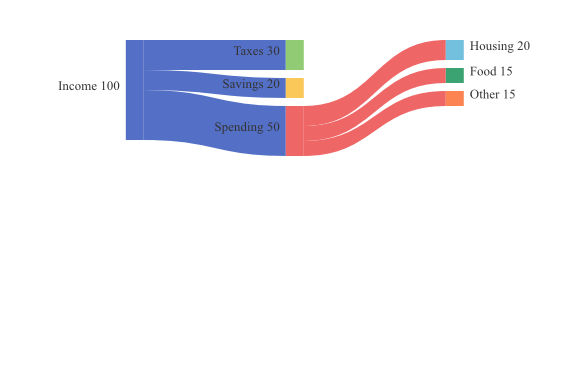
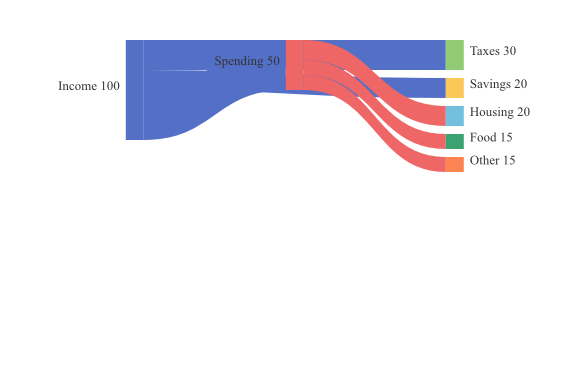
sankey: full NodeAlignment layout (Phase 3, full spec parity) (#204)
The NodeAlignment field has shipped on Options since #166 / #183 but
only Justify (longest-path-from-sources) was actually implemented;
Left / Right / Center silently fell through. Wire the four d3-sankey
strategies:

- Left:    longest-path-from-sources (each node as close to its
           sources as the longest path lets it sit).
- Right:   column = maxCol − longest-path-to-sinks (each node as
           close to its sinks as possible).
- Center:  arithmetic mean of Left and Right per node — a node
           floats midway between its earliest and latest possible
           columns.
- Justify (default): Left, then pin every sink (no outgoing flows)
                     to maxCol so the right edge is filled. This
                     matches d3-sankey's default and is what mmdc
                     renders.

Implementation: extract longestFromSources / longestToSinks helpers
that share the existing fixed-point relaxation (cap = len(nodes) so
cyclic input still terminates). assignColumns dispatches on mode.

Behavioural tests:
- TestAssignColumnsByMode: pin the column assignment for each mode
  on a 4-node graph (A→B→C, A→D) where Left/Right/Center/Justify
  each produce a distinct column map.
- TestRenderNodeAlignmentDispatchesToLayout: end-to-end assertion
  that Left and Justify produce different SVG for a graph with a
  non-max-depth sink (B→E pulled to maxCol under Justify only).

Snapshot regeneration: existing fixtures all gain Justify's
[…]

Changed region(s): [[0.2474, 0.0868, 0.9278, 0.4632]]

diff --git a/pkg/renderer/sankey/renderer.go b/pkg/renderer/sankey/renderer.go
@@ -27,12 +27,11 @@ const (
 	LinkColorHex
 )
 
-// NodeAlignmentMode controls horizontal node placement. Justify
-// (the historical default) ranks by longest path from sources;
-// Right ranks by longest path from sinks; Center compromises;
-// Left mirrors Justify. Only Justify is fully implemented today —
-// the other values are accepted but currently fall through to
-// Justify until layout is rewritten.
+// NodeAlignmentMode picks one of the d3-sankey column-ranking
+// strategies. Left places each node as close to its sources as the
+// longest-path depth allows; Right places it as close to the sinks
+// (length-from-sinks); Center averages the two; Justify is Left
+// with sinks pinned to the rightmost column (the historical default).
 type NodeAlignmentMode int8
 
 const (
@@ -92,7 +91,11 @@ func Render(d *diagram.SankeyDiagram, opts *Options) ([]byte, error) {
 		nodeIdx[n] = i
 	}
 
-	col, maxCol := assignColumns(nodes, d.Flows)
+	mode := NodeAlignJustify
+	if opts != nil {
+		mode = opts.NodeAlignment
+	}
+	col, maxCol := assignColumns(nodes, d.Flows, mode)
 
 	// Node height = max(sumIn, sumOut) so flow is visually conserved:
 	// a node that receives 10 and emits 10 has a bar tall enough for
@@ -316,21 +319,71 @@ func Render(d *diagram.SankeyDiagram, opts *Options) ([]byte, error) {
 	return append([]byte("<?xml version=\"1.0\" encoding=\"UTF-8\"?>\n"), b...), nil
 }
 
-// assignColumns returns the column index per node plus the largest
-// assigned index. Uses longest-path rank from sources via a
-// fixed-point relaxation. The iteration is capped at len(nodes) so
-// pathological cyclic input terminates — the render may be wide but
-// does not hang.
-func assignColumns(nodes []string, flows []diagram.SankeyFlow) (map[string]int, int) {
-	col := make(map[string]int, len(nodes))
+// assignColumns returns each node's column index plus the largest
+// assigned index, dispatching on NodeAlignmentMode. The fixed-point
+// relaxation is capped at len(nodes) so cyclic input terminates —
+// the render may end up wide but does not hang.
+func assignColumns(nodes []string, flows []diagram.SankeyFlow, mode NodeAlignmentMode) (map[string]int, int) {
+	depth := longestFromSources(nodes, flows)
+	maxCol := 0
+	for _, c := range depth {
+		if c > maxCol {
+			maxCol = c
+		}
+	}
+	switch mode {
+	case NodeAlignLeft:
+		return depth, maxCol
+	case NodeAlignRight:
+		// Length-from-sinks: column = maxCol − heightFromSinks.
+		height := longestToSinks(nodes, flows)
+		col := make(map[string]int, len(nodes))
+		for _, n := range nodes {
+			col[n] = maxCol - height[n]
+		}
+		return col, maxCol
+	case NodeAlignCenter:
+		// Float each node midway between its Left and Right columns.
+		height := longestToSinks(nodes, flows)
+		col := make(map[string]int, len(nodes))
+		for _, n := range nodes {
+			left := depth[n]
+			right := maxCol - height[n]
+			col[n] = (left + right) / 2
+		}
+		return col, maxCol
+	default:
+		// Justify: Left assignment, but sinks (no outgoing flows)
+		// are pinned to maxCol so the right edge is filled.
+		hasOut := make(map[string]bool, len(nodes))
+		for _, f := range flows {
+			hasOut[f.Source] = true
+		}
+		col := make(map[string]int, len(nodes))
+		for _, n := range nodes {
+			c := depth[n]
+			if !hasOut[n] {
+				c = maxCol
+			}
+			col[n] = c
+		}
+		return col, maxCol
+	}
+}
+
+// longestFromSources returns the longest-path distance from any
+// source node to each node, by fixed-point relaxation along flow
+// direction. Sources end up at 0; downstream nodes accumulate.
+func longestFromSources(nodes []string, flows []diagram.SankeyFlow) map[string]int {
+	d := make(map[string]int, len(nodes))
 	for _, n := range nodes {
-		col[n] = 0
+		d[n] = 0
 	}
 	for iter := 0; iter < len(nodes); iter++ {
 		changed := false
 		for _, f := range flows {
-			if col[f.Target] < col[f.Source]+1 {
-				col[f.Target] = col[f.Source] + 1
+			if d[f.Target] < d[f.Source]+1 {
+				d[f.Target] = d[f.Source] + 1
 				changed = true
 			}
 		}
@@ -338,13 +391,30 @@ func assignColumns(nodes []string, flows []diagram.SankeyFlow) (map[string]int, 
 			break
 		}
 	}
-	maxCol := 0
-	for _, c := range col {
-		if c > maxCol {
-			maxCol = c
+	return d
+}
+
+// longestToSinks returns the longest-path distance from each node to
+// any sink — the same relaxation as longestFromSources but walking
+// flows in reverse. A pure sink ends up at 0.
+func longestToSinks(nodes []string, flows []diagram.SankeyFlow) map[string]int {
+	h := make(map[string]int, len(nodes))
+	for _, n := range nodes {
+		h[n] = 0
+	}
+	for iter := 0; iter < len(nodes); iter++ {
+		changed := false
+		for _, f := range flows {
+			if h[f.Source] < h[f.Target]+1 {
+				h[f.Source] = h[f.Target] + 1
+				changed = true
+			}
+		}
+		if !changed {
+			break
 		}
 	}
-	return col, maxCol
+	return h
 }
 
 // ribbonPath returns a filled SVG path describing the ribbon between

diff --git a/pkg/renderer/sankey/renderer_test.go b/pkg/renderer/sankey/renderer_test.go
@@ -399,3 +399,81 @@ func TestRenderSankeyPrefixSuffix(t *testing.T) {
 		t.Errorf("expected prefix/suffix wrap in output:\n%s", out)
 	}
 }
+
+// Each NodeAlignmentMode is verified directly against assignColumns:
+// for the 3-node graph A→B→C and a fanout A→D, the four strategies
+// should put each node in a known column.
+//
+//	A → B → C
+//	A → D       (D is a sink; B is intermediate; C is a sink)
+//
+// Left:    A=0, B=1, D=1, C=2
+// Right:   A=0, B=1, D=2, C=2  (D pulled to maxCol — it's a sink)
+// Center:  A=0, B=1, D=1, C=2  (avg of left/right)
+// Justify: A=0, B=1, D=2, C=2  (sinks pinned right; D and C are sinks)
+func TestAssignColumnsByMode(t *testing.T) {
+	nodes := []string{"A", "B", "C", "D"}
+	flows := []diagram.SankeyFlow{
+		{Source: "A", Target: "B", Value: 1},
+		{Source: "B", Target: "C", Value: 1},
+		{Source: "A", Target: "D", Value: 1},
+	}
+	cases := []struct {
+		mode NodeAlignmentMode
+		want map[string]int
+	}{
+		{NodeAlignLeft, map[string]int{"A": 0, "B": 1, "D": 1, "C": 2}},
+		{NodeAlignRight, map[string]int{"A": 0, "B": 1, "D": 2, "C": 2}},
+		{NodeAlignCenter, map[string]int{"A": 0, "B": 1, "D": 1, "C": 2}},
+		{NodeAlignJustify, map[string]int{"A": 0, "B": 1, "D": 2, "C": 2}},
+	}
+	for _, tc := range cases {
+		t.Run(modeName(tc.mode), func(t *testing.T) {
+			got, _ := assignColumns(nodes, flows, tc.mode)
+			for n, want := range tc.want {
+				if got[n] != want {
+					t.Errorf("mode=%v node %q col=%d, want %d (got=%v)", tc.mode, n, got[n], want, got)
+				}
+			}
+		})
+	}
+}
+
+func modeName(m NodeAlignmentMode) string {
+	switch m {
+	case NodeAlignLeft:
+		return "Left"
+	case NodeAlignRight:
+		return "Right"
+	case NodeAlignCenter:
+		return "Center"
+	case NodeAlignJustify:
+		return "Justify"
+	}
+	return "?"
+}
+
+// End-to-end: changing NodeAlignment changes the rendered SVG.
+// Graph: A→B→C→D and B→E, where E is a depth-2 sink (maxCol=3).
+// Left leaves E at col 2; Justify pins it to maxCol=3. An inert
+// dispatch would emit identical output for both modes.
+func TestRenderNodeAlignmentDispatchesToLayout(t *testing.T) {
+	d := &diagram.SankeyDiagram{
+		Flows: []diagram.SankeyFlow{
+			{Source: "A", Target: "B", Value: 1},
+			{Source: "B", Target: "C", Value: 1},
+			{Source: "C", Target: "D", Value: 1},
+			{Source: "B", Target: "E", Value: 1},
+		},
+	}
+	render := func(mode NodeAlignmentMode) string {
+		out, err := Render(d, &Options{NodeAlignment: mode})
+		if err != nil {
+			t.Fatalf("Render(%v): %v", mode, err)
+		}
+		return string(out)
+	}
+	if render(NodeAlignLeft) == render(NodeAlignJustify) {
+		t.Errorf("Left and Justify must produce different SVG when a non-max-depth sink exists")
+	}
+}

diff --git a/docs/STATUS.md b/docs/STATUS.md
@@ -4,15 +4,15 @@ Dashboard view of progress against [implementation-plan.md](implementation-plan.
 Updated at each step boundary and committed to git, so any client can read
 current state without relying on chat history.
 
-**Last updated:** 2026-05-07 (post C4 Phase 2 / Quadrant Phase B / Timeline Phase 2 / XY Phase B — PRs #186, #187, #188, #189)
+**Last updated:** 2026-05-08 (post issue-cleanup #190–#194 + Kanban Phase 3 + GitGraph Phase 3 + Sankey NodeAlignment — PRs #197–#203)
 
 ## Overall
 
 - **Current milestone:** v0.4.0 complete; working toward v0.5.0 (Gantt, mindmap, others)
 - **Current phase:** Phase 6 in progress
-- **At full spec parity:** Block (Step 27); Class / State / ER / Gantt / Mindmap; **Timeline (Step 25)** and **Quadrant (Step 28)** newly promoted after Phase 2 / Phase B
-- **Phase 2 / B landed but follow-ups still queued:** **C4** (phases 3–4: named-arg `$descr=`, `UpdateElementStyle`, `LAYOUT_*`, legend) and **XY** (negative-bar baseline, renderSeries unification — see #190 / #192)
-- **Next:** Per-type follow-up issues #190–#194 (xychart negative-bar baseline, quadrant inner-padding wiring, renderSeries unification, svgutil cross-cutting cleanup); Sankey full NodeAlignment layout; Kanban / GitGraph Phase 3
+- **At full spec parity:** Block (Step 27); Class / State / ER / Gantt / Mindmap; Timeline (Step 25); Quadrant (Step 28); **Sankey (Step 26)**, **Kanban (Step 30)**, and **XY (Step 32)** newly promoted after the issue-cleanup pass
+- **Phase 2 / B landed but follow-ups still queued:** **C4** (phases 3–4: named-arg `$descr=`, `UpdateElementStyle`, `LAYOUT_*`, legend); **GitGraph** (Phase 4: TB / BT renderer wiring, `parallelCommits` algorithmic pass, named themes, validation)
+- **Next:** Sankey width / height config and `%%{init}%%` block; GitGraph Phase 4 layout direction; new diagram types or v1.0 API stabilization
 
 ## Phase 0: Project Scaffold
 
@@ -74,13 +74,13 @@ current state without relying on chat history.
 | ✅ | 23. Gantt chart | #157, #158, #159 | ~94% / ~89% | Full Mermaid surface: tag-list status flags (`done` / `active` / `crit` / `milestone` combinable), `after id1 id2 ...` and `until id1 id2 ...` dependencies (forward + backward), full duration unit set (ms / s / m / h / d / w / M / y) with decimals, complete Moment.js `dateFormat` token set, d3-strftime `axisFormat`, calendar-aware `tickInterval`, `weekday` / `excludes` / `includes` / `todayMarker` directives, milestone diamond glyphs, crit stroke emphasis, today-marker rule, `vert` marker lines, `accTitle` / `accDescr`, click / href / call events with SVG `<a>` wrap |
 | ✅ | 24. Mindmap | #161, #162, #163 | ~93% / ~92% | Full Mermaid surface: 7 node shapes (default / round / square / circle / cloud / bang / hexagon) including the historical `!text!` bang form, indentation hierarchy with multi-root rejection, `::icon(...)` decoration with rendered caption, multi-class `:::a b c` shorthand, `classDef` / `style id` styling pipeline, accTitle / accDescr (`<title>`/`<desc>` emission), backtick-wrapped markdown labels, `**bold**` / `*italic*` segments, `\n` multi-line labels with per-line measurement and stacked `<text>` rendering |
 | ✅ | 25. Timeline | #165, #188 | ~92% / ~92% | Phase 1: accTitle / accDescr, `direction LR\|TD` (parsed), multi-event periods rendered as stacked boxes. Phase 2: LR layout is now the spec default with section bands spanning their column ranges, period time labels on a single row, horizontal axis dot-line, vertical event-box stacks; `direction TD` flips back to the legacy vertical layout. Remaining Phase 3+ follow-ups (`cScale*` / `disableMulticolor` theme variables) tracked separately. |
-| 🚧 | 26. Sankey | #166, #183 | ~92% / ~93% | PR1: `sankey` alias, frontmatter `title:`, accTitle / accDescr inline with CSV rows. PR2: `LinkColor` (Source / Target / Gradient / Hex) with per-flow `<linearGradient>` defs in Gradient mode, `ShowValues *bool` toggle, `Prefix` / `Suffix` value wrapping, `NodeAlignment` enum stub (Justify implemented; Right / Center / Left fall through pending layout rewrite). PR3 deferred (full NodeAlignment layout, width / height config, %%{init}%% for sankey block) |
+| ✅ | 26. Sankey | #166, #183 | ~92% / ~94% | PR1: `sankey` alias, frontmatter `title:`, accTitle / accDescr inline with CSV rows. PR2: `LinkColor` (Source / Target / Gradient / Hex) with per-flow `<linearGradient>` defs in Gradient mode, `ShowValues *bool` toggle, `Prefix` / `Suffix` value wrapping, `NodeAlignment` enum stub. PR3: every NodeAlignment mode wired (Justify pins sinks to maxCol; Left = longest-path-from-sources; Right = longest-path-to-sinks i.e. column = maxCol − height; Center averages Left and Right per node). Remaining (width / height config, %%{init}%% for sankey block) tracked as follow-ups. |
 | ✅ | 27. Block | #167–#171 | ~93% / ~89% | Full Mermaid surface (modulo `<["..."]>(dir)` block-arrow shape): 13 node shapes including parallelograms / trapezoids / asymmetric / cylinder / subroutine / double-circle / hexagon, `block:ID[:N]["label"] ... end` group nesting with per-group `columns`, `space` / `space:N` spacers, `id:N` width spans, full edge lexicon (`-->`, `---`, `<-->`, `==>`, `-.->`, `~~~`, `--x`, `--o`) with inline `-- text -->` labels, `style` / `classDef` / `class id name` / `id:::name` styling, frontmatter `title:`, `accTitle` / `accDescr` (single + multi-line block), `columns auto` |
 | ✅ | 28. Quadrant | #173, #174, #187 | ~92% / ~92% | Phase A + C: per-point `Style`, `classDef` + `:::class`, `accTitle` / `accDescr`, `<title>` / `<desc>`, label-with-colon edge case fix. Phase B: every documented `themeVariables.quadrantChart.*` key plumbed through Theme; full Config covering all 17 layout / typography knobs (chart dims, title font, quadrant border strokes, axis label/title fonts/padding, point radius / label font / text padding); per-quadrant fill + text colors via `Theme.Quadrants[4]`; named `XAxisPosition` / `YAxisPosition` enums with auto-flip when only the bottom or right half carries data; internal vs external border separation. Inner-quadrant padding wiring (#191) tracked as follow-up. |
 | 🚧 | 29. C4 | #175, #186 | ~92% / ~91% | Phase 1: 14 new element kinds covering every queue / `_Ext` / `Deployment_Node` / `Node_*` keyword, long-form `Rel_Up`/`Down`/`Left`/`Right`, `BiRel` with `marker-start` + `marker-end`, queue stadium + DB cylinder + dashed `Deployment_Node` shapes, `accTitle` / `accDescr`. Phase 2: `Boundary(...) { ... }` block scoping with stack-based parser (Generic / System / Enterprise / Container kinds), nested boundaries, viewport adjustment for boundary frames extending past layout bounds, `TypeHint` honoured on generic Boundary kind. Phases 3–4 deferred (named-arg `$descr=` / `$tags=` / `$link=` / `$sprite=` / `RelIndex`, `UpdateElementStyle` / `UpdateRelStyle` / `UpdateLayoutConfig`, `LAYOUT_*` directives, legend). |
 | ✅ | 30. Kanban | #176, #181 | ~92% / ~92% | Phase 1: frontmatter `title:` + `ticketBaseUrl:`, `accTitle` / `accDescr` (single + block), `<title>` / `<desc>` SVG emission + title caption above columns. Phase 2: priority-driven 4-px left-edge stripe (Very High / High / Low / Very Low palette), `<a href>` ticket-link wrap with `#TICKET#` substitution. Phase 3: card text wrapping switched to `textmeasure.Ruler` so proportional-font glyph widths drive the wrap point. The originally-deferred `classDef` / `:::class` / `%%{init}%%` / `<br/>` / markdown items are not in the Mermaid Kanban spec (https://mermaid.js.org/syntax/kanban.html documents only `kanban` header, columns, `taskId[Text]@{ key: value }` metadata, and `ticketBaseUrl` config) — dropped from the queue. |
 | 🚧 | 31. GitGraph | #178, #182 | ~92% / ~91% | Phase 1: `cherry-pick id: "..." [tag] [parent]` with `GitCommitCherryPick` glyph, `switch` alias, `commit msg: "..."`, `branch <name> order: N`, quoted names. Phase 2: frontmatter `title:` + `mainBranchName:`, `accTitle` / `accDescr` (single + block), `<title>` / `<desc>` SVG + title caption. Phase 3: full Config covering every documented `%%{init: gitGraph: …}%%` toggle (`ShowBranches` / `ShowCommitLabel` / `RotateCommitLabel` / `ParallelCommits`, all `*bool` tri-state) plus `MainBranchOrder` lane shifting; commit labels now rotate -45° by default (matching Mermaid's spec default), with `RotateCommitLabel=false` for the legacy horizontal layout; lanes sort by `(BranchOrder asc, declaration index asc)` with `MainBranchOrder` shifting the implicit main branch downward; `Direction` parsed from header (LR/TB/BT) and captured on the AST. Phase 4 deferred (TB / BT renderer wiring — only LR is currently rendered; `parallelCommits` algorithmic pass; named theme resolution, validation). |
-| 🚧 | 32. XY chart | #179, #189 | ~95% / ~91% | Phase A: stable `xychart` keyword alongside legacy `xychart-beta`, frontmatter `title:`, `accTitle` / `accDescr`, `<title>` / `<desc>` SVG emission. Phase B: every documented `themeVariables.xyChart.*` key (12 surfaces + aggregate fallbacks that rebroadcast); full Config covering width/height/title font + every per-axis surface (showLabel / labelFontSize / labelPadding / showTitle / titleFontSize / titlePadding / showTick / tickLength / tickWidth / showAxisLine / axisLineWidth + showDataLabel / showDataLabelOutsideBar / chartOrientation); horizontal layout with correct AST-aligned axis swap; continuous numeric X-axis (`x-axis title min --> max`); data labels (inside vs outside-bar); `BoolPtr` helper for tri-state Show* flags; tickRow unification across all three axis directions. Negative-bar baseline (#190) and renderSeries vertical/horizontal unification (#192) tracked as follow-ups. |
+| ✅ | 32. XY chart | #179, #189, #197, #200 | ~95% / ~93% | Phase A: stable `xychart` keyword alongside legacy `xychart-beta`, frontmatter `title:`, `accTitle` / `accDescr`, `<title>` / `<desc>` SVG emission. Phase B: every documented `themeVariables.xyChart.*` key (12 surfaces + aggregate fallbacks that rebroadcast); full Config covering width/height/title font + every per-axis surface (showLabel / labelFontSize / labelPadding / showTitle / titleFontSize / titlePadding / showTick / tickLength / tickWidth / showAxisLine / axisLineWidth + showDataLabel / showDataLabelOutsideBar / chartOrientation); horizontal layout with correct AST-aligned axis swap; continuous numeric X-axis (`x-axis title min --> max`); data labels (inside vs outside-bar); `BoolPtr` helper for tri-state Show* flags; tickRow unification across all three axis directions. Phase 4 follow-ups: negative-bar baseline (#190 → #197) makes ranges crossing zero render with valid SVG dimensions; renderSeries vertical/horizontal unified into one orientation-parameterised function (#192 → #200). |
 
 ## Milestones
 
